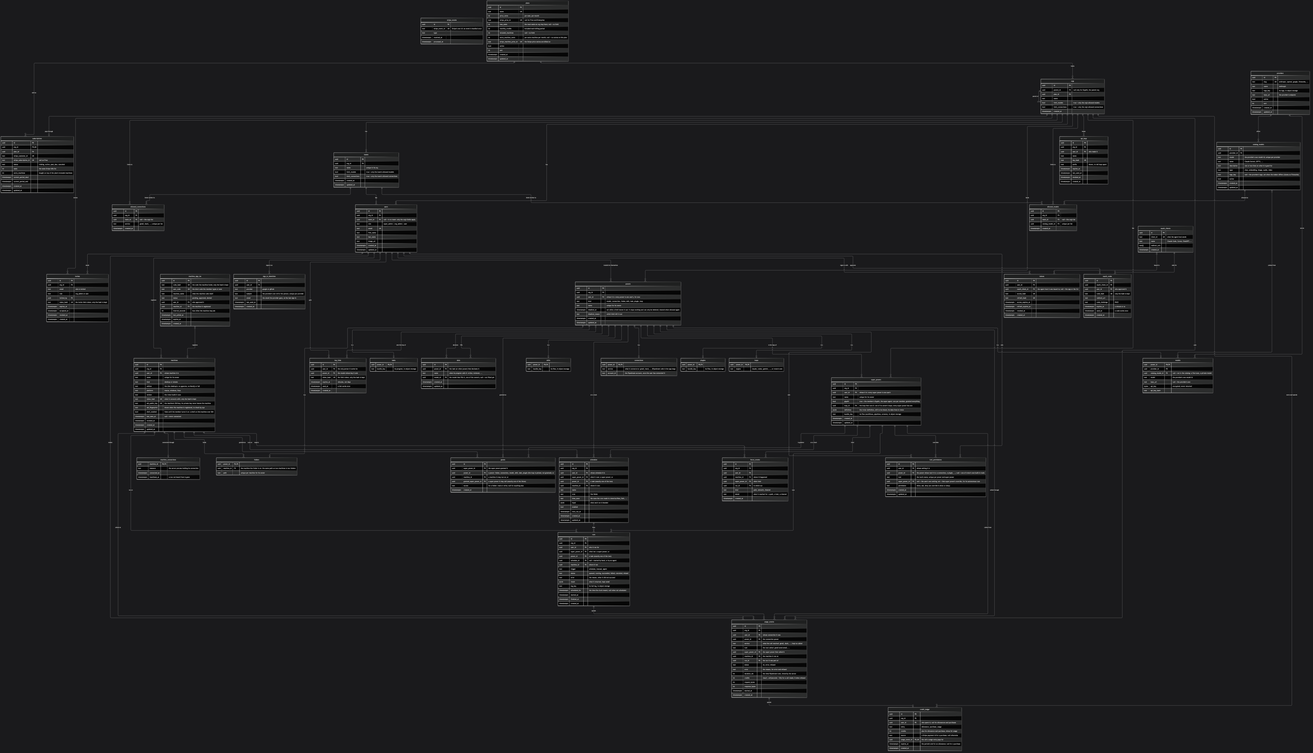
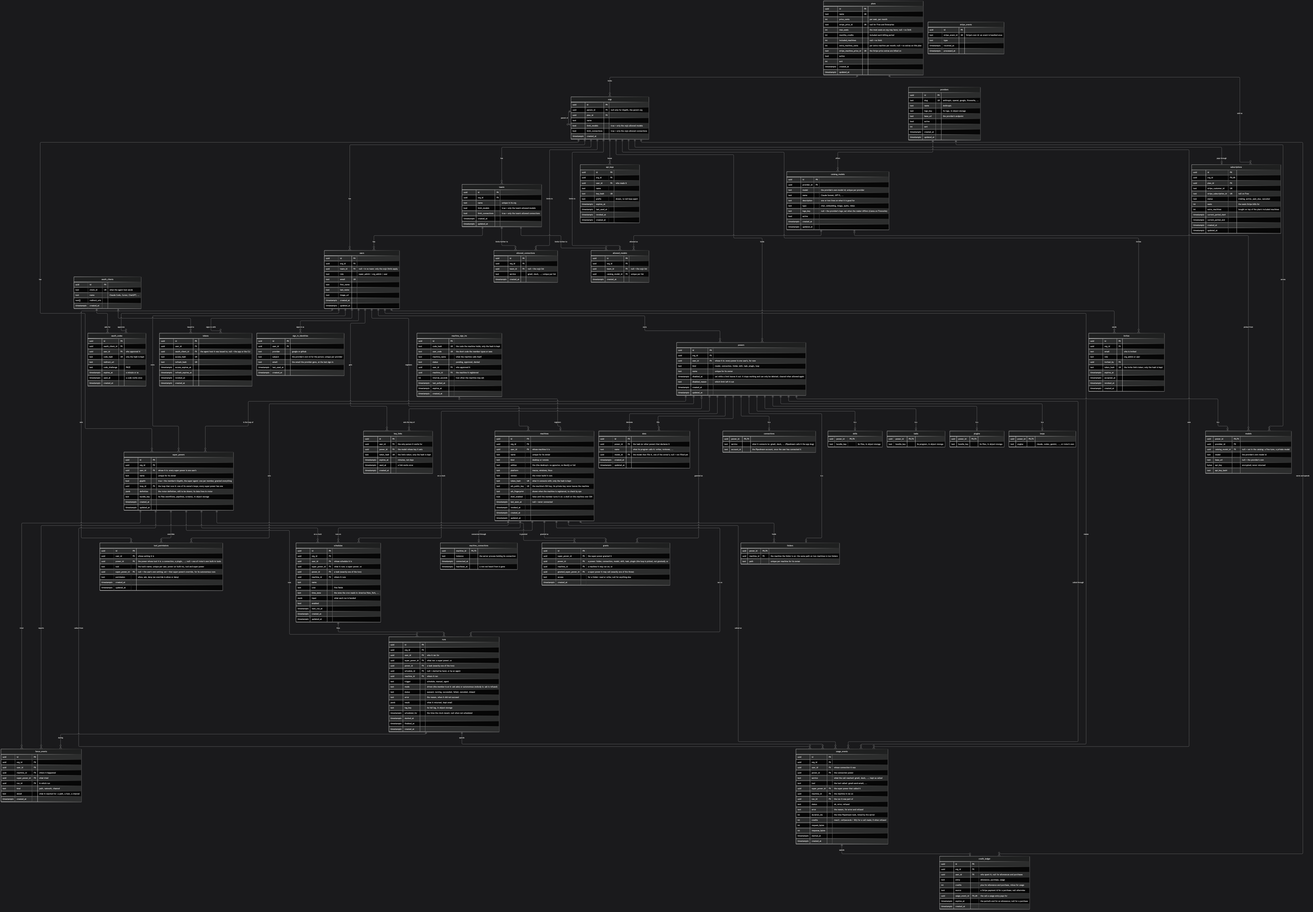
Docs: architecture and data model reconciled and put in the same order
Models are granted, not named; connections are Pipedream accounts with no stored secret; loops are picked, not granted; driven or autonomous decides what ask means (runs.mode); rrotor ships as one Linux image; sign-in by provider id, machine tokens and OAuth for agent hosts; background work on Postgres with no queue table; what lives on the server and what in rrotor; catalog counts agree; misplaced paragraphs moved to their sections.

diff --git a/server/docs/data-model.md b/server/docs/data-model.md
@@ -27,9 +27,11 @@ erDiagram
     machines ||--o{ folders : "holds"
     machines ||--o{ fence_events : "reports"
     super_powers ||--o{ fence_events : "tried"
+    runs ||--o{ fence_events : "during"
     users ||--o{ tool_permissions : "sets"
     orgs ||--o{ powers : "holds"
-    users ||--o{ powers : "installs for themselves"
+    users ||--o{ powers : "owns"
+    users ||--o{ super_powers : "owns"
     orgs ||--o{ super_powers : "has"
     super_powers ||--o{ grants : "is granted"
     powers ||--o{ grants : "granted as"
@@ -150,7 +152,7 @@ erDiagram
         uuid id PK
         uuid user_id FK "whose setting it is"
         uuid power_id FK "the power whose tool it is: a connection, a plugin, ...; null = one of rrotor's own built-in tools"
-        text tool "the tool's name; unique per power and super power"
+        text tool "the tool's name; unique per user, power (or built-in), tool and super power"
         uuid super_power_id FK "null = the user's own setting; set = that super power's override, for its autonomous runs"
         text permission "allow, ask, deny (an override is allow or deny)"
         timestamptz created_at
@@ -282,6 +284,7 @@ erDiagram
         uuid schedule_id FK "null = started by hand, or by an agent"
         uuid machine_id FK "where it ran"
         text trigger "schedule, manual, agent"
+        text mode "driven (the member is at it: ask asks) or autonomous (nobody is: ask is refused)"
         text status "queued, running, succeeded, failed, canceled, missed"
         text error "the reason, when it did not succeed"
         jsonb result "what it returned, kept small"
@@ -480,6 +483,12 @@ erDiagram
 
 ![The data model](img/data-model.png)
 
+## orgs
+
+Glyphh is the parent org: the one org with no parent. Every customer org's parent is Glyphh. Every org is on a plan: Glyphh itself is on Enterprise, and a new org starts on Free.
+
+**For now an org is for billing and for limiting models and connections:** its plan, subscription, seats, machines and credits, who is in it (members and invites), and which models and connections its users may add (below). It owns no powers or super powers; those are each user's. Rows still carry `org_id` so the database keeps every org's data apart and counts its limits.
+
 ## plans
 
 What an org pays per seat each month, and how many seats it may have (`max_seats`).
@@ -506,13 +515,17 @@ The plans carried over from the old server:
 
 An org that already has its included machines plus its extras cannot register another: signing in from one more machine is refused with the reason (on Free: "Free includes 2 machines. Upgrade, or remove one."), and nothing is half registered.
 
-Left behind from the old server: the margin and the dollar pool, the rate limits, the SSO and governance flags, the price history, and the machine terms. Glyphh governs nothing: limits and access belong to an AI gateway the customer puts in front of their models.
+Left behind from the old server: the margin and the dollar pool, the rate limits, the SSO and governance flags, the price history, and the machine terms. Beyond which models and connections users may add, Glyphh governs nothing: spend and rate limits belong to an AI gateway the customer puts in front of their models.
 
-## orgs
+## users
 
-Glyphh is the parent org: the one org with no parent. Every customer org's parent is Glyphh. Every org is on a plan: Glyphh itself is on Enterprise, and a new org starts on Free.
+A user belongs to one org and has one role in it:
 
-**For now an org is for billing and for limiting models and connections:** its plan, subscription, seats, machines and credits, who is in it (members and invites), and which models and connections its users may add (below). It owns no powers or super powers; those are each user's. Rows still carry `org_id` so the database keeps every org's data apart and counts its limits.
+- `super_admin`: runs Glyphh. Only users of the parent org.
+- `org_admin`: runs their org's billing and members, and sees its usage.
+- `user`: works in their org.
+
+The profile is the user's first name, last name, email and profile image. A Google or GitHub sign-in finds the user by the provider's own id for them (below, Signing in), never by email alone. A user is in at most one team (`team_id`).
 
 ## Teams: limiting models and connections
 
@@ -527,29 +540,27 @@ The org's Models and Connections pages exist only to say which models and connec
 
 **A limit set later disables what it leaves out.** A model or connection a user already has stops working the moment a limit leaves it out: the database marks it disabled with the reason, rrotor is never handed it, and its calls are refused. A disabled power can only be deleted, never edited. When the limit no longer leaves it out (the item is allowed again, or the limit is turned off), it comes back on its own: the mark is cleared and everything hanging off it works as before (its grants, tool permissions, slots, schedules, key and account), with nothing for the user to redo.
 
-## Tool permissions
+## Invites
 
-Every tool a power brings (each tool of a connection, of a plugin's MCP server, ...) has a permission, set where the app shows that power (the powers window, Connections):
+An org admin invites someone by email, with the role they will have. The invite link carries a token (only its hash is kept) and expires; signing in with Google or GitHub from it, as that email, makes the user in the org, and the invite is accepted. An open invite holds a seat, so an org at `max_seats` cannot invite more; an accepted one becomes a billed seat, and a revoked or expired one frees its seat. Only one open invite per email per org.
 
-- **The user's own setting:** `allow` (runs without asking), `ask` (asks each time) or `deny` (never runs). A tool with no row is `ask`.
-- **A super power's override:** for its autonomous runs, a super power can set a tool to `allow` or `deny`, whatever the user's own setting says. With no override, the user's own setting applies.
-- **Autonomous means nobody to ask:** in a run nobody is watching, `ask` is refused, so an autonomous super power uses only tools that are allowed, by the user or by its override.
-- **rrotor's own tools** (its ~250 built-in tools) have permissions too: a row with no power is a built-in tool's.
-- **Where it is enforced:** a connection call at the server's relay, which every connection call passes through, so it holds even against a modified rrotor; every other tool in rrotor, which hands the loop only what is allowed.
+## Signing in
 
-## users
+- **sign_in_identities:** a person signs in with Google or GitHub, and the server finds them by the provider's own id for them (`subject`), never by email alone: an email that changes, or a GitHub account with a hidden email, still finds the same person, and an email can never be used to reach someone else's account. The first sign-in links by email, once, through an invite or a new org.
+- **The plugin signs in with OAuth:** an agent host (Claude Code, Cursor, ChatGPT) is an `oauth_clients` row; the member approves it in the browser, the host gets a one-time code (`oauth_codes`, with PKCE, a minute to live), and trades it for tokens issued to that client, so the member can see and revoke each host on its own.
+- **key_links:** the one-time link an agent hands the member to enter a model's key on the platform. It works once, for minutes, only for that member signed in, and only for that model.
 
-A user belongs to one org and has one role in it:
+## tokens
 
-- `super_admin`: runs Glyphh. Only users of the parent org.
-- `org_admin`: runs their org's billing and members, and sees its usage.
-- `user`: works in their org.
+What the server hands out after a sign-in: a short-lived access token and a longer-lived refresh token. Only their hashes are stored, so a stolen database holds no usable token. A token is revoked by setting `revoked_at`.
 
-The profile is the user's first name, last name, email and profile image. The email is how a Google or GitHub sign-in finds the user.
+A token issued to an agent host carries its OAuth client (`oauth_client_id`), so each host is revoked on its own; the app's and the platform's tokens carry none. Machines have their own token on `machines`, not here.
+
+**api_keys** are the keys Glyphh issues, so a script or a runtime can call the Glyphh API; only a hash is stored, with a short prefix shown to tell keys apart.
 
 ## Powers
 
-Everything a super power uses is a power: a model, a connection, a folder, a skill, a task or a plugin. Who installed it is the control, with one more: the org and its teams may limit which models and connections can be added (above). Glyphh governs nothing else:
+Everything a super power uses is a power: a model, a connection, a folder, a skill, a task, a plugin, or the loop that runs it. Who installed it is the control, with one more: the org and its teams may limit which models and connections can be added (above). Glyphh governs nothing else:
 
 - **Models are a user's:** each person adds their own, with their own key. Nothing is shared or deduplicated: ten people adding the same model are ten rows, each with its own key, and one person may add the same model more than once (one per super power, say, to see each one's spend at the provider).
 - **Connections are a user's:** always one person's own account (Pipedream accounts belong to a person; there are no shared or system accounts).
@@ -561,15 +572,31 @@ Every power is a row in `powers` (who owns it, its kind and name), and one row i
 
 - **A model** is a provider, the provider's model id and the API key (an optional base URL for providers that need one). rrotor calls the provider directly with that key: Glyphh never sits in the call, never sees its rates or prices, and never counts its tokens. What a model costs is between the person and their provider. A customer who wants limits or access rules puts their own AI gateway in front, through the base URL.
 - **A connection** is a user's own account at Pipedream: the service it connects to (Gmail, Slack, ...) and the account id. Pipedream calls a service an app; Glyphh says service, because an app is something else here. Glyphh stores no sign-in for it: Pipedream holds the account and its tokens, under the Glyphh user's id as Pipedream's external user id. Linking one: the server asks Pipedream for a connect token for that user, and Pipedream's own page does the sign-in. Using one: the loop reaches Pipedream's MCP server (`remote.mcp.pipedream.net/v3`) with the Pipedream project, environment, service (`x-pd-app-slug`) and the user's id as headers, and a short-lived Pipedream access token the server mints for the run (Glyphh's Pipedream client credentials never leave the server). Only Glyphh's connections are used: a super power's loop gets exactly its connections, nothing of the loop's own.
+- **A folder** is a path on one machine (`machine_id`): the same path on two machines is two folders, and a folder grant says read or write.
+- **Skills, tasks and plugins** are bundles of files in object storage (`bundle_key`); whether each save keeps a version is still open.
 - **A secret** (a key, a sign-in) is encrypted at rest, never returned after it is saved, and handed only to the member's own runtime when a super power runs.
-- **The catalog** is what the app and the platform show when someone picks a model, and where every model's logo comes from: `providers` (each with its name and logo) and `catalog_models` (each provider's models, with a name, a description and a type). Every entry shows the provider's logo, the provider, the model's name, its description and its type. It is Glyphh's reference data, the same for every org: anyone signed in reads it, only super admins change it. It starts from the old server's list (about 3,900 models across 130 providers) and its 143 provider logos, kept in object storage. It holds no prices, rates or limits.
+- **The catalog** is what the app and the platform show when someone picks a model, and where every model's logo comes from: `providers` (each with its name and logo) and `catalog_models` (each provider's models, with a name, a description and a type). Every entry shows the provider's logo, the provider, the model's name, its description and its type. It is Glyphh's reference data, the same for every org: anyone signed in reads it, only super admins change it. It starts from the old server's list (about 3,900 models across about 125 providers) and its 143 provider logos, kept in object storage. It holds no prices, rates or limits.
 - **A model power** points at its provider (always) and at the catalog entry it was picked from (when there is one), so it shows that logo and name wherever it appears. A model the catalog does not have (a fine-tune, a private model) is still added, by its provider and model id, and wears the provider's logo.
+
+Left behind from the old gateway: the router itself, LiteLLM's 80-odd tables, model access lists, the request log, budgets, margins and the dollar pool, spend roll-ups, auto-routers, and per-model flags nothing enforced.
+
+## Tool permissions
+
+Every tool a power brings (each tool of a connection, of a plugin's MCP server, ...) has a permission, set where the app shows that power (the powers window, Connections):
+
+- **The user's own setting:** `allow` (runs without asking), `ask` (asks each time) or `deny` (never runs). A tool with no row is `ask`.
+- **A super power's override:** for its autonomous runs, a super power can set a tool to `allow` or `deny`, whatever the user's own setting says. With no override, the user's own setting applies.
+- **Autonomous means nobody to ask:** in a run nobody is watching, `ask` is refused, so an autonomous super power uses only tools that are allowed, by the user or by its override.
+- **rrotor's own tools** (its ~250 built-in tools) have permissions too: a row with no power is a built-in tool's.
+- **Where it is enforced:** a connection call at the server's relay, which every connection call passes through, so it holds even against a modified rrotor; every other tool in rrotor, which hands the loop only what is allowed.
 
 ## Super powers
 
 Each member has one Glyphh, the super agent (`glyphh` true): it has every power, every super power and every machine they have, and needs no grants. Every other super power sits under it and has only its **grants**: each grant gives it one power (a folder, a connection, a model, a skill, a task or a plugin), one machine it may run on, or one other super power it may call. Nothing ungranted is ever handed to it, whether or not anyone is watching. A super power is one user's own, like every power: the org installs none.
 
 **A loop runs it; models are granted.** Every super power has one loop (`loop_id`): the CLI or rrotor's own engine that runs it. Its models are grants like any other power, as many as it needs: the super power uses them directly, and the powers it has use them too (a task's slots).
+
+A super power's own files (its workflows, pipelines and screens) are a bundle in object storage (`bundle_key`); `definition` holds the rrotor definition, still to be drawn. What it stores (its data, vectors and graph) lives in rrotor, never here. Where the content of its conversations lives is still open.
 
 ## Slots
 
@@ -581,12 +608,21 @@ Anything that runs on its own can be put on a clock: a super power or a task.
 
 - **schedules:** what runs, on which of the member's machines, a five-field cron read in its own time zone, and the input each run is handed. Switched off with `enabled`, never deleted to pause.
 - **The clock is the server's.** When a schedule is due, the server sends the run to its machine over the machine's connection. A machine that is offline at that moment gets the run marked `missed`, with the reason: nothing piles up and fires later in a burst.
+- **A run is driven or autonomous** (`mode`): driven when the member is at it, so a tool set to `ask` asks them; autonomous when nobody is (a schedule, an agent), so `ask` is refused.
 - **runs** is the history: every run, whether the clock, the member or an agent started it, with its status, its error, a small result and its full log (in object storage). A schedule's history is its runs. A run's connection calls are its usage events, so a run shows what it cost.
 - **Who sees what:** as for usage. A user sees their own runs, an org admin the org's.
 
-**api_keys** are the keys Glyphh issues, so a script or a runtime can call the Glyphh API; only a hash is stored, with a short prefix shown to tell keys apart.
+## Machines
 
-Left behind from the old gateway: the router itself, LiteLLM's 80-odd tables, model access lists, the request log, budgets, margins and the dollar pool, spend roll-ups, auto-routers, and per-model flags nothing enforced.
+Signing in always happens from a machine, and signing in is how a machine is registered: rrotor (on a server, or inside the desktop app) asks the server for a code, the member approves it in the browser, and the server registers the machine and issues its tokens (`machine_sign_ins` holds the code while it waits, only as a hash). Ported from the old server's device sign-in.
+
+A machine is a registered rrotor, a small Linux VM: a member's desktop (the app runs it) or a remote server they run, on any host. It connects out to the server with its own token (only the hash is kept) and reports what it is: a desktop or a remote server, its platform, and the rrotor version it runs (builds update themselves, so the server sees which version each machine is on). `last_seen_at` says when it was last online. Its edition says what it can host: a desktop's rrotor is lite (no pgvector, no Neo4j), a remote one is full, so a super power that needs vectors or a graph is never placed or scheduled on a lite machine. A folder is always on one machine (`folders.machine_id`): the same path on two machines is two folders, and a folder grant says whether the super power may only read it or also write it (`grants.access`). At sign-in a machine also makes its own SSH key pair: the private key stays on the machine, the public key is registered here with its fingerprint (see the architecture, Machine to machine). A plan includes a number of machines (`included_machines`). An org can add more for a monthly price per extra machine, set per plan (`extra_machine_cents`, billed on the plan's Stripe price for extras); the subscription carries how many it bought (`extra_machines`). An org can register up to its included plus its extra machines; revoking one stops it connecting and frees its place.
+
+**machine_connections** says which server process holds each connected machine's connection, so a request landing on another process is sent to the right one (Postgres notifications carry it across; no Redis). A row not heard from within its heartbeat is treated as gone.
+
+**fence_events** are what rrotor reports when something inside a run reaches past its fence: a path that is not mounted, a host not on its network list, a channel it was not granted. The relay never reads the stream to find them; rrotor tells the server, and the platform shows them ("this super power tried to leave its folders").
+
+A machine's shell over SSH is off until the member turns it on (`shell_enabled`).
 
 ## Billing and usage
 
@@ -623,44 +659,20 @@ The same rows serve every view, scoped by the principal:
 - **An org admin** sees every call in the org, by user, by connector, by super power, by machine and by day, and the ledger.
 - **A super admin** sees every org, and what Glyphh owes Pipedream for it: the same credits, at Pipedream's price.
 
-## Invites
+## Stripe
 
-An org admin invites someone by email, with the role they will have. The invite link carries a token (only its hash is kept) and expires; signing in with Google or GitHub from it, as that email, makes the user in the org, and the invite is accepted. An open invite holds a seat, so an org at `max_seats` cannot invite more; an accepted one becomes a billed seat, and a revoked or expired one frees its seat. Only one open invite per email per org.
-
-## Machines
-
-Signing in always happens from a machine, and signing in is how a machine is registered: rrotor (the CLI or the desktop) asks the server for a code, the member approves it in the browser, and the server registers the machine and issues its tokens (`machine_sign_ins` holds the code while it waits, only as a hash). Ported from the old server's device sign-in.
-
-A machine is a registered rrotor: a member's desktop or a remote server they run, on any host. It connects out to the server with its own token (only the hash is kept) and reports what it is: a desktop or a remote server, its platform, and the rrotor version it runs (builds update themselves, so the server sees which version each machine is on). `last_seen_at` says when it was last online. Its edition says what it can host: a desktop's rrotor is lite (no pgvector, no Neo4j), a remote one is full, so a super power that needs vectors or a graph is never placed or scheduled on a lite machine. A folder is always on one machine (`folders.machine_id`): the same path on two machines is two folders, and a folder grant says whether the super power may only read it or also write it (`grants.access`). At sign-in a machine also makes its own SSH key pair: the private key stays on the machine, the public key is registered here with its fingerprint (see the architecture, Machine to machine). A plan includes a number of machines (`included_machines`). An org can add more for a monthly price per extra machine, set per plan (`extra_machine_cents`, billed on the plan's Stripe price for extras); the subscription carries how many it bought (`extra_machines`). An org can register up to its included plus its extra machines; revoking one stops it connecting and frees its place.
+**stripe_events** records every Stripe webhook by Stripe's own event id, so an event delivered twice is handled once: a credit pack is never added twice and a seat change never applied twice.
 
 ## Limits are enforced by the database
 
-Every plan limit (seats, machines, credits) holds even when requests race or code has a bug:
+Every limit (seats, machines, credits, and the org's and teams' allowed models and connections) holds even when requests race or code has a bug:
 
-- **The database enforces it.** A trigger refuses a write that would take an org over its limit: a machine past its included plus extra machines, a user or invite past its seats. A bug in a route cannot get around it.
+- **The database enforces it.** A trigger refuses a write that would take an org over its limit: a machine past its included plus extra machines, a user or invite past its seats, a model or connection outside the user's allowed lists. Credits are checked by the connection relay under the same org lock. A bug in a route cannot get around it.
 - **No races.** The check locks the org's row before counting, so requests at the same moment are taken one after another; exactly one gets the last place, and the rest are refused with the reason.
 - **Freed at once:** a revoked machine, a removed user, a revoked or expired invite stops counting immediately.
 - **Downgrades never cut anyone off:** an org over its new plan's limit keeps what it has and cannot add more until it is back under.
 - **Tested for each limit:** the limit, the refusal and its message, freeing a place, the downgrade rule, and concurrent requests racing for the last place.
 
-**machine_connections** says which server process holds each connected machine's connection, so a request landing on another process is sent to the right one (Postgres notifications carry it across; no Redis). A row not heard from within its heartbeat is treated as gone.
-
-**fence_events** are what rrotor reports when something inside a run reaches past its fence: a path that is not mounted, a host not on its network list, a channel it was not granted. The relay never reads the stream to find them; rrotor tells the server, and the platform shows them ("this super power tried to leave its folders").
-
 ## Scoping
 
-Every API call and MCP tool runs as a principal: the user, their org and their role. The role decides what an operation allows and the org decides which rows it sees. Row level security in Postgres enforces the org under the code, so a bug in a query cannot reach another org's data.
-
-## tokens
-
-What the server hands out after a sign-in: a short-lived access token and a longer-lived refresh token. Only their hashes are stored, so a stolen database holds no usable token. A token is revoked by setting `revoked_at`.
-
-## Signing in
-
-- **sign_in_identities:** a person signs in with Google or GitHub, and the server finds them by the provider's own id for them (`subject`), never by email alone: an email that changes, or a GitHub account with a hidden email, still finds the same person, and an email can never be used to reach someone else's account. The first sign-in links by email, once, through an invite or a new org.
-- **The plugin signs in with OAuth:** an agent host (Claude Code, Cursor, ChatGPT) is an `oauth_clients` row; the member approves it in the browser, the host gets a one-time code (`oauth_codes`, with PKCE, a minute to live), and trades it for tokens issued to that client, so the member can see and revoke each host on its own.
-- **key_links:** the one-time link an agent hands the member to enter a model's key on the platform. It works once, for minutes, only for that member signed in, and only for that model.
-
-## Stripe
-
-**stripe_events** records every Stripe webhook by Stripe's own event id, so an event delivered twice is handled once: a credit pack is never added twice and a seat change never applied twice.
+Every API call and MCP tool runs as a principal: the user, their org and their role. The role decides what an operation allows and the org decides which rows it sees. Row level security in Postgres enforces the org under the code, so a bug in a query cannot reach another org's data. Inside an org, powers, super powers, machines, runs and usage are each one user's: a user reaches only their own, an org admin reads the org's usage and runs (never its keys), a super admin every org's.

diff --git a/server/docs/architecture.md b/server/docs/architecture.md
@@ -48,7 +48,6 @@ flowchart TB
 ![The whole system](img/architecture.png)
 
 ## Decided
-
 ### How everything is built
 
 - **Every capability is built in this order: the database (drawn in the data model first), then the API, then the SDK.** MCP exposes the same service function the API serves, so one function sits behind every surface.
@@ -69,38 +68,27 @@ A single-deployment, multi-tenant cloud SaaS, headless first: every capability i
 - **Language and framework:** Python 3.12+, FastAPI, Pydantic v2, async throughout.
 - **Shape:** one deployment for every tenant, run as two or more stateless processes behind a load balancer.
 
-### Models
-
-Glyphh is a model runtime, not a gateway. The one thing it governs is which models and connections an org's users may add, set by the org and narrowed by its teams. Spend, rate limits and every other rule belong to an AI gateway the customer puts in front of their models (a model's base URL can point at it). A model is a person's own: they add it with their own key (a provider, the provider's model id and an API key), and a super power names one of theirs; when it runs, rrotor calls the provider directly with that key. Glyphh stores the model's setup and never routes, meters, limits or pays for a model call. The key is encrypted on the server and handed only to a member's own runtime.
-
-Adding a model happens in the app, where the member edits a super power: its models opens the full catalog, the way connections opens Pipedream's, searchable by provider, name and type, each entry with its provider's logo, name, description and type. Picking one asks for the key in that same window; the app sends it to the server's API through the SDK, and the server saves the model as the member's power, encrypted, and grants it to the super power being edited (Glyphh needs no grant). When that super power runs, rrotor asks the server for what it was granted and gets its models with their keys, over its own machine connection, and slots it into the loop. The platform does the same for an agent that needs a key (below).
-
-### Connections
-
-Connections are the moat. A super power declares the connections it needs by name; only Glyphh's connections are used: an MCP server with its sign-in, added in Glyphh, encrypted and never returned. Whichever loop runs the super power (Claude Code, Codex or rrotor's own), rrotor hands it exactly those connections and nothing of the loop's own (for Claude Code, `--mcp-config` with `--strict-mcp-config`).
-
-### Platform
-
-A web app in its own repo (`glyphh-ai/platform`): a client of the server's API through the SDK, like the app, the CLI and the plugin. The server stays headless and serves no pages.
-
-It holds what must never go through a chat: an API key is never typed to an agent or passed through MCP. The app's own window is not a chat, so the app takes a key directly; an agent never does. A tool that needs a key returns a one-time link to the platform (single use, short lived, tied to that member and that model); the agent opens it in the browser, the member signs in (the link alone is never enough), pastes the key, and the platform sends it to the server's API, encrypted at rest there. The agent only hears that it was saved and the key's last four characters. For people it shows what each one has, never what is inside: Tom has 4 connections, 3 models, 2 super powers and 2 machines. The platform also carries sign-in and consent, approving a machine's sign-in code, accepting an invite, and the hand-off to Stripe for billing.
-
-Its usage and billing pages read the server's usage events and credit ledger through the API, scoped as the data model says (a user their own, an org admin the org, a super admin every org):
-
-- **Usage:** the period's credits used and left, then the same calls grouped by user, by connector, by super power, by machine and by day, and the call log under it: time, user, super power, machine, connector, tool, duration, credits and status, filtered by any of them and exported as CSV. Each row opens to its full detail.
-- **Billing** (org admins): the plan, seats, included and extra machines, the period's dates, the credit allowance and packs with their ledger, upgrading, buying a pack, and the hand-off to Stripe for invoices and payment methods.
-
-The API behind them is three operations, also MCP tools so an agent can answer "what did we spend on Gmail this month": a summary grouped by one dimension over a time range, the call log (filtered, newest first, paged by cursor), and the balance with its ledger.
-
 ### Paths
 
 - **rrotor → CLI or model → provider:** the thinking goes straight to the provider, on the member's own subscription or key. Glyphh never sees it.
 - **rrotor → connector → server:** every connection call goes through the server, which relays it to Pipedream and counts it, because each one is a cost Glyphh pays.
 
+### Models
+
+Glyphh is a model runtime, not a gateway. The one thing it governs is which models and connections an org's users may add, set by the org and narrowed by its teams. Spend, rate limits and every other rule belong to an AI gateway the customer puts in front of their models (a model's base URL can point at it). A model is a person's own: they add it with their own key (a provider, the provider's model id and an API key), and a super power is granted as many of theirs as it needs; when it runs, rrotor calls the provider directly with that key. Glyphh stores the model's setup and never routes, meters, limits or pays for a model call. The key is encrypted on the server and handed only to a member's own runtime.
+
+Adding a model happens in the app, where the member edits a super power: its models opens the full catalog, the way connections opens Pipedream's, searchable by provider, name and type, each entry with its provider's logo, name, description and type. Picking one asks for the key in that same window; the app sends it to the server's API through the SDK, and the server saves the model as the member's power, encrypted, and grants it to the super power being edited (Glyphh needs no grant). When that super power runs, rrotor asks the server for what it was granted and gets its models with their keys, over its own machine connection, and hands them to the loop and to the slots of its tasks. The platform does the same for an agent that needs a key (below).
+
+### Connections
+
+Connections are the moat: about 3,500 services (Gmail, Slack, Salesforce, ...) through Pipedream. A connection is always one person's own account; Pipedream holds the account and its sign-in, and Glyphh stores no secret for it. A super power is granted the connections it may use, and whichever loop runs it (Claude Code, Codex or rrotor's own), rrotor hands it exactly those and nothing of the loop's own (for Claude Code, `--mcp-config` with `--strict-mcp-config`). Every call goes through the server, which checks the tool's permission and the org's credits, relays it to Pipedream with a short-lived token minted for the run, and counts it.
+
 ### Glyphh and the super powers under it
 
 - **Glyphh, the super agent, has everything:** every power, every super power and every machine the member has. There is one per member, and it is what the member drives.
-- **Every other super power sits under Glyphh and has only what it is granted:** its folders, connections, machines, loops, models, skills, tasks, plugins and the other super powers it may call. Nothing else of the member's, whether or not anyone is watching.
+- **Every other super power sits under Glyphh and has only what it is granted:** its folders (read or write), connections, models, skills, tasks, plugins, the machines it may run on and the other super powers it may call. Its loop is picked, not granted: every super power has exactly one. Nothing else of the member's, whether or not anyone is watching.
+
+- **Who is driving decides what can be asked.** In a run the member drives, a tool set to `ask` asks them. In a run nobody is watching (autonomous: on a clock, or started by an agent), `ask` means refused, so it uses only tools that are allowed, by the member or by the super power's own override.
 
 Glyphh has the super power editor: the skills and tools to create a super power, grant and take back its powers, machines and super powers, and test-run it. Only Glyphh edits super powers; a super power under it cannot change its own grants or another's. Every editor step is a server operation, so it is an API call and an MCP tool too: a member edits a super power by talking to Glyphh, or in the app's editor. Ported from the old app's super power and power builders.
 
@@ -120,13 +108,31 @@ Everything a super power needs to run, on the member's own machine:
 - **A Next.js server:** serves a super power's screens.
 - **The loop:** the CLI or rrotor's own, with the super power's models and powers.
 
-It is the agent runtime: from it, a super power reaches about 3,900 models across 125 providers directly, never through Glyphh's servers, and about 3,500 connections, which go through the server and are counted against the member's subscription.
+It is the agent runtime: from it, a super power reaches about 3,900 models across about 125 providers directly, never through Glyphh's servers, and about 3,500 connections, which go through the server and are counted against the member's subscription.
 
 **The desktop app is a rrotor too, a lite one:** the CLIs and the loop, without pgvector or Neo4j. It connects to the member's other machines, so they can spread super powers across them and manage them all from one place.
 
 A super power's data and screens live in its member's rrotor, never on the server: the server holds the super power's definition and its grants, not what it stores.
 
 Still to draw with the rrotor definition: how a super power's data is kept apart from another's in that Postgres, and how its screens reach the app and the web when the machine is remote.
+
+### rrotor is a Linux VM; the app you drive is not sandboxed
+
+Decided 2026-10-11:
+
+- **rrotor is a small Linux VM.** On a server it is the machine; on a desktop the app runs it headless (Apple's Virtualization framework on macOS, WSL2 on Windows, locked down: no automounted drives, no Windows interop, no Windows PATH). Inside it, a run sees only the folders it was granted, mounted in; the rest of the desktop does not exist for it, so no shell, Bash tool or program can reach past them. On Linux desktops the same fence comes from namespaces and Landlock, without a VM.
+- **The app runs unsandboxed, because the member is driving.** Like Claude Code on their own machine: they see each step, approve what is risky, and can stop it. Glyphh, the agent they drive, has everything.
+- **Remote control reaches a desktop only through its rrotor, and only by grants.** Another machine, the web, the platform or a super power running unattended never touches the app or the desktop directly: it reaches the rrotor VM, which holds only what was granted. A super power is fenced whether or not anyone is watching it.
+- **The app's own tools that touch files, shells or processes move into rrotor,** so nothing remote can reach the desktop through a tool in the app instead of through bash. The app keeps its screens, its windows and its browser, which already keeps its own storage apart from the member's own browser; its downloads and uploads go to a granted folder.
+
+### Runtime hosting
+
+Glyphh does not host runtimes. Members run rrotor on their own compute: their desktop, or a remote server on any infrastructure (Fly.io, Railway, Render, AWS, a VPS).
+
+- rrotor ships as one Linux image: a Docker image for servers, and the same system as the VM the desktop app runs.
+- It connects out to the server, never in, so a remote server needs no public address, ports or firewall rules.
+- Glyphh supplies the setup: one-click configs for the common hosts, a one-line `docker run`, and docs for the rest.
+- The server knows which machines a member has registered, what each is (desktop or remote, lite or full, its platform and rrotor version), and whether each is online.
 
 ### Machine to machine: SSH over the relay
 
@@ -145,25 +151,20 @@ A member's machines reach each other, so from machine A they can watch machine B
 
 **The relay is the gate; rrotor is the fence.** The relay cannot read the stream, and an escape attempt never crosses it anyway (`cd /` happens inside B's VM), so the folders are enforced in B's rrotor, where what was not granted is not mounted. The relay guards the door in front: before it joins two machines it checks who is asking, which machine, which super power and which channel (watch, drive, files, shell) against the grants, and refuses anything else before SSH starts; B's rrotor checks the same again when the channel opens. When a grant is revoked, a machine removed or a power disabled, the relay cuts the live sessions at once and the server tells rrotor to unmount. When something inside a run reaches past its fence, rrotor reports it to the server (`fence_events`), and the platform shows it. Neither depends on the other being honest.
 
-### rrotor is a Linux VM; the app you drive is not sandboxed
-
-Decided 2026-10-11:
-
-- **rrotor is a small Linux VM.** On a server it is the machine; on a desktop the app runs it headless (Apple's Virtualization framework on macOS, WSL2 on Windows, locked down: no automounted drives, no Windows interop, no Windows PATH). Inside it, a run sees only the folders it was granted, mounted in; the rest of the desktop does not exist for it, so no shell, Bash tool or program can reach past them. On Linux desktops the same fence comes from namespaces and Landlock, without a VM.
-- **The app runs unsandboxed, because the member is driving.** Like Claude Code on their own machine: they see each step, approve what is risky, and can stop it. Glyphh, the agent they drive, has everything.
-- **Remote control reaches a desktop only through its rrotor, and only by grants.** Another machine, the web, the platform or a super power running unattended never touches the app or the desktop directly: it reaches the rrotor VM, which holds only what was granted. A super power is fenced whether or not anyone is watching it.
-- **The app's own tools that touch files, shells or processes move into rrotor,** so nothing remote can reach the desktop through a tool in the app instead of through bash. The app keeps its screens, its windows and its browser, which already keeps its own storage apart from the member's own browser; its downloads and uploads go to a granted folder.
-
 Ported from the old relay (`/ws/attach`), which kept the outbound sockets, the fixed list of methods and the folder grants, but let the server read every frame, put the user's sign-in token in the URL, and had no machine identity of its own.
 
-### Runtime hosting
+### Platform
 
-Glyphh does not host runtimes. Members run rrotor on their own compute: their desktop, or a remote server on any infrastructure (Fly.io, Railway, Render, AWS, a VPS).
+A web app in its own repo (`glyphh-ai/platform`): a client of the server's API through the SDK, like the app, the CLI and the plugin. The server stays headless and serves no pages.
 
-- rrotor ships as one Docker image, so it runs anywhere Docker does.
-- It connects out to the server, never in, so a remote server needs no public address, ports or firewall rules.
-- Glyphh supplies the setup: one-click configs for the common hosts, a one-line `docker run`, and docs for the rest.
-- The server only knows which runtimes a member has registered, and whether each is online.
+It holds what must never go through a chat: an API key is never typed to an agent or passed through MCP. The app's own window is not a chat, so the app takes a key directly; an agent never does. A tool that needs a key returns a one-time link to the platform (single use, short lived, tied to that member and that model); the agent opens it in the browser, the member signs in (the link alone is never enough), pastes the key, and the platform sends it to the server's API, encrypted at rest there. The agent only hears that it was saved and the key's last four characters. For people it shows what each one has, never what is inside: Tom has 4 connections, 3 models, 2 super powers and 2 machines. The platform also carries sign-in and consent, approving a machine's sign-in code, accepting an invite, and the hand-off to Stripe for billing.
+
+Its usage and billing pages read the server's usage events and credit ledger through the API, scoped as the data model says (a user their own, an org admin the org, a super admin every org):
+
+- **Usage:** the period's credits used and left, then the same calls grouped by user, by connector, by super power, by machine and by day, and the call log under it: time, user, super power, machine, connector, tool, duration, credits and status, filtered by any of them and exported as CSV. Each row opens to its full detail.
+- **Billing** (org admins): the plan, seats, included and extra machines, the period's dates, the credit allowance and packs with their ledger, upgrading, buying a pack, and the hand-off to Stripe for invoices and payment methods.
+
+The API behind them is three operations, also MCP tools so an agent can answer "what did we spend on Gmail this month": a summary grouped by one dimension over a time range, the call log (filtered, newest first, paged by cursor), and the balance with its ledger.
 
 ### Interfaces
 
@@ -175,7 +176,10 @@ Two ways in, one per surface, both in the `glyphh-ai/glyphh` repo (private for n
 ### Access
 
 - **Sign-in:** Google and GitHub. Their screens are the sign-in; the server takes the callback and redirects back to the app or agent, so it serves no page of its own. No magic links: mail scanners use them up, they break across devices, and they train people to click sign-in links in email. Microsoft can follow, the same way, when business users need it.
-- **Tokens:** after Google sign-in the server issues its own tokens to the app, the CLI and the plugin; every token carries its org.
+- **People are found by the provider's own id** for them, never by email alone, so a changed email or a hidden GitHub email still finds the same person.
+- **Tokens:** after a Google or GitHub sign-in the server issues its own tokens to the app and the platform; every token carries its org.
+- **Machines** sign in with a code the member approves in the browser, and get a machine token of their own, sent in a header, never in a URL.
+- **Agent hosts** (the plugin in Claude Code, Cursor, ChatGPT) sign in with OAuth: the member approves each host, and can revoke one without the others.
 
 ### Data
 
@@ -183,8 +187,9 @@ Two ways in, one per surface, both in the `glyphh-ai/glyphh` repo (private for n
 - **Tenant isolation:** row-level security keyed on the org, enforced by the database.
 - **Access:** SQLAlchemy 2 (async) over asyncpg.
 - **Schema:** one schema file until relaunch, then Alembic migrations.
-- **Background jobs:** a Postgres-backed queue.
-- **Files:** object storage (R2 or S3), with references in Postgres.
+- **Background work:** Postgres, with no queue table of its own: the clock reads `schedules.next_run_at`, and each job is its own table's state (a Stripe event not yet processed, a machine to unmount), taken with `FOR UPDATE SKIP LOCKED` so two processes never take the same one.
+- **Files:** object storage (R2 or S3), with references in Postgres: power and super power bundles, run logs, provider logos.
+- **What lives where:** the server's Postgres holds accounts, powers, grants, machines, schedules, runs, usage and billing ([data model](data-model.md)). A member's rrotor holds what their super powers make: their data, vectors and graphs, and their screens. Nothing a super power stores ever lives on the server. Where conversations live is still open.
 
 ### Operations
 

diff --git a/server/docs/status.md b/server/docs/status.md
@@ -29,6 +29,7 @@ On the [architecture](architecture.md): rrotor as a Linux VM (the app you drive 
 Decisions still to make. Where a proposal is written, it is a proposal, not a decision.
 
 - **Conversations:** not drawn. Proposal: the server keeps each conversation's record (title, super power, machine, run, status, times), rrotor keeps the messages, and the app and web open them over SSH through the relay.
+- **Where the org admin's pages live:** members, teams, and the allowed models and connections, in the app or on the platform.
 - **App settings** (workspaces, tabs, layout, appearance): not drawn; on hold.
 - **The rrotor definition:** what a super power's definition holds (its workflows, pipelines and screens), how one super power's data is kept apart from another's in rrotor's Postgres, and how its screens reach the app and the web from a remote machine.
 - **Power bundles:** whether saving a skill or task keeps each version, and how edits made in a machine's folder get back to the server.
